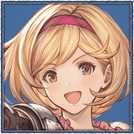
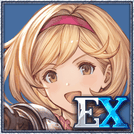
Fix the GBVSR roster and mark the EX characters
Only Djeeta, Gran and Narmaya have EX versions. Ilsa (EX) was listed by
mistake, and "Id" is not a playable character at all - which is also why
Dustloop never had a portrait for it. Both are removed, Id from the base
roster as well.

The three EX portraits were byte-for-byte copies of the regular ones, so
the picker showed the same face twice. They now carry the EX badge from
Dustloop in the bottom-right corner, where it does not collide with the
due counter in the top-right.

Changed region(s): [[0.5075, 0.6866, 0.9851, 0.9851]]

diff --git a/games/gbvsr.js b/games/gbvsr.js
@@ -27,9 +27,7 @@ const GAME_GBVSR = {
     { id: "gran",          name: "Gran",           short: "GN" },
     { id: "granex",        name: "Gran (EX)",      short: "GR" },
     { id: "grimnir",       name: "Grimnir",        short: "GI" },
-    { id: "id",            name: "Id",             short: "ID" },   // ohne Bild auf Dustloop
     { id: "ilsa",          name: "Ilsa",           short: "IS" },
-    { id: "ilsaex",        name: "Ilsa (EX)",      short: "IL" },
     { id: "katalina",      name: "Katalina",       short: "KA" },
     { id: "ladiva",        name: "Ladiva",         short: "LA" },
     { id: "lancelot",      name: "Lancelot",       short: "LN" },
@@ -61,7 +59,7 @@ const GAME_GBVSR = {
     "ladiva", "metera", "lowain", "ferry", "zeta", "vaseraga", "narmaya",
     "soriz", "zooey", "cagliostro", "yuel", "anre", "eustace", "seox",
     "vira", "avatarbelial", "beelzebub", "vikala", "siegfried", "grimnir",
-    "nier", "beatrix", "sandalphon", "id", "anila", "belial",
+    "nier", "beatrix", "sandalphon", "anila", "belial",
   ],
 
   states: ["jumping", "crouching", "\u{1F3AF} drill"],
